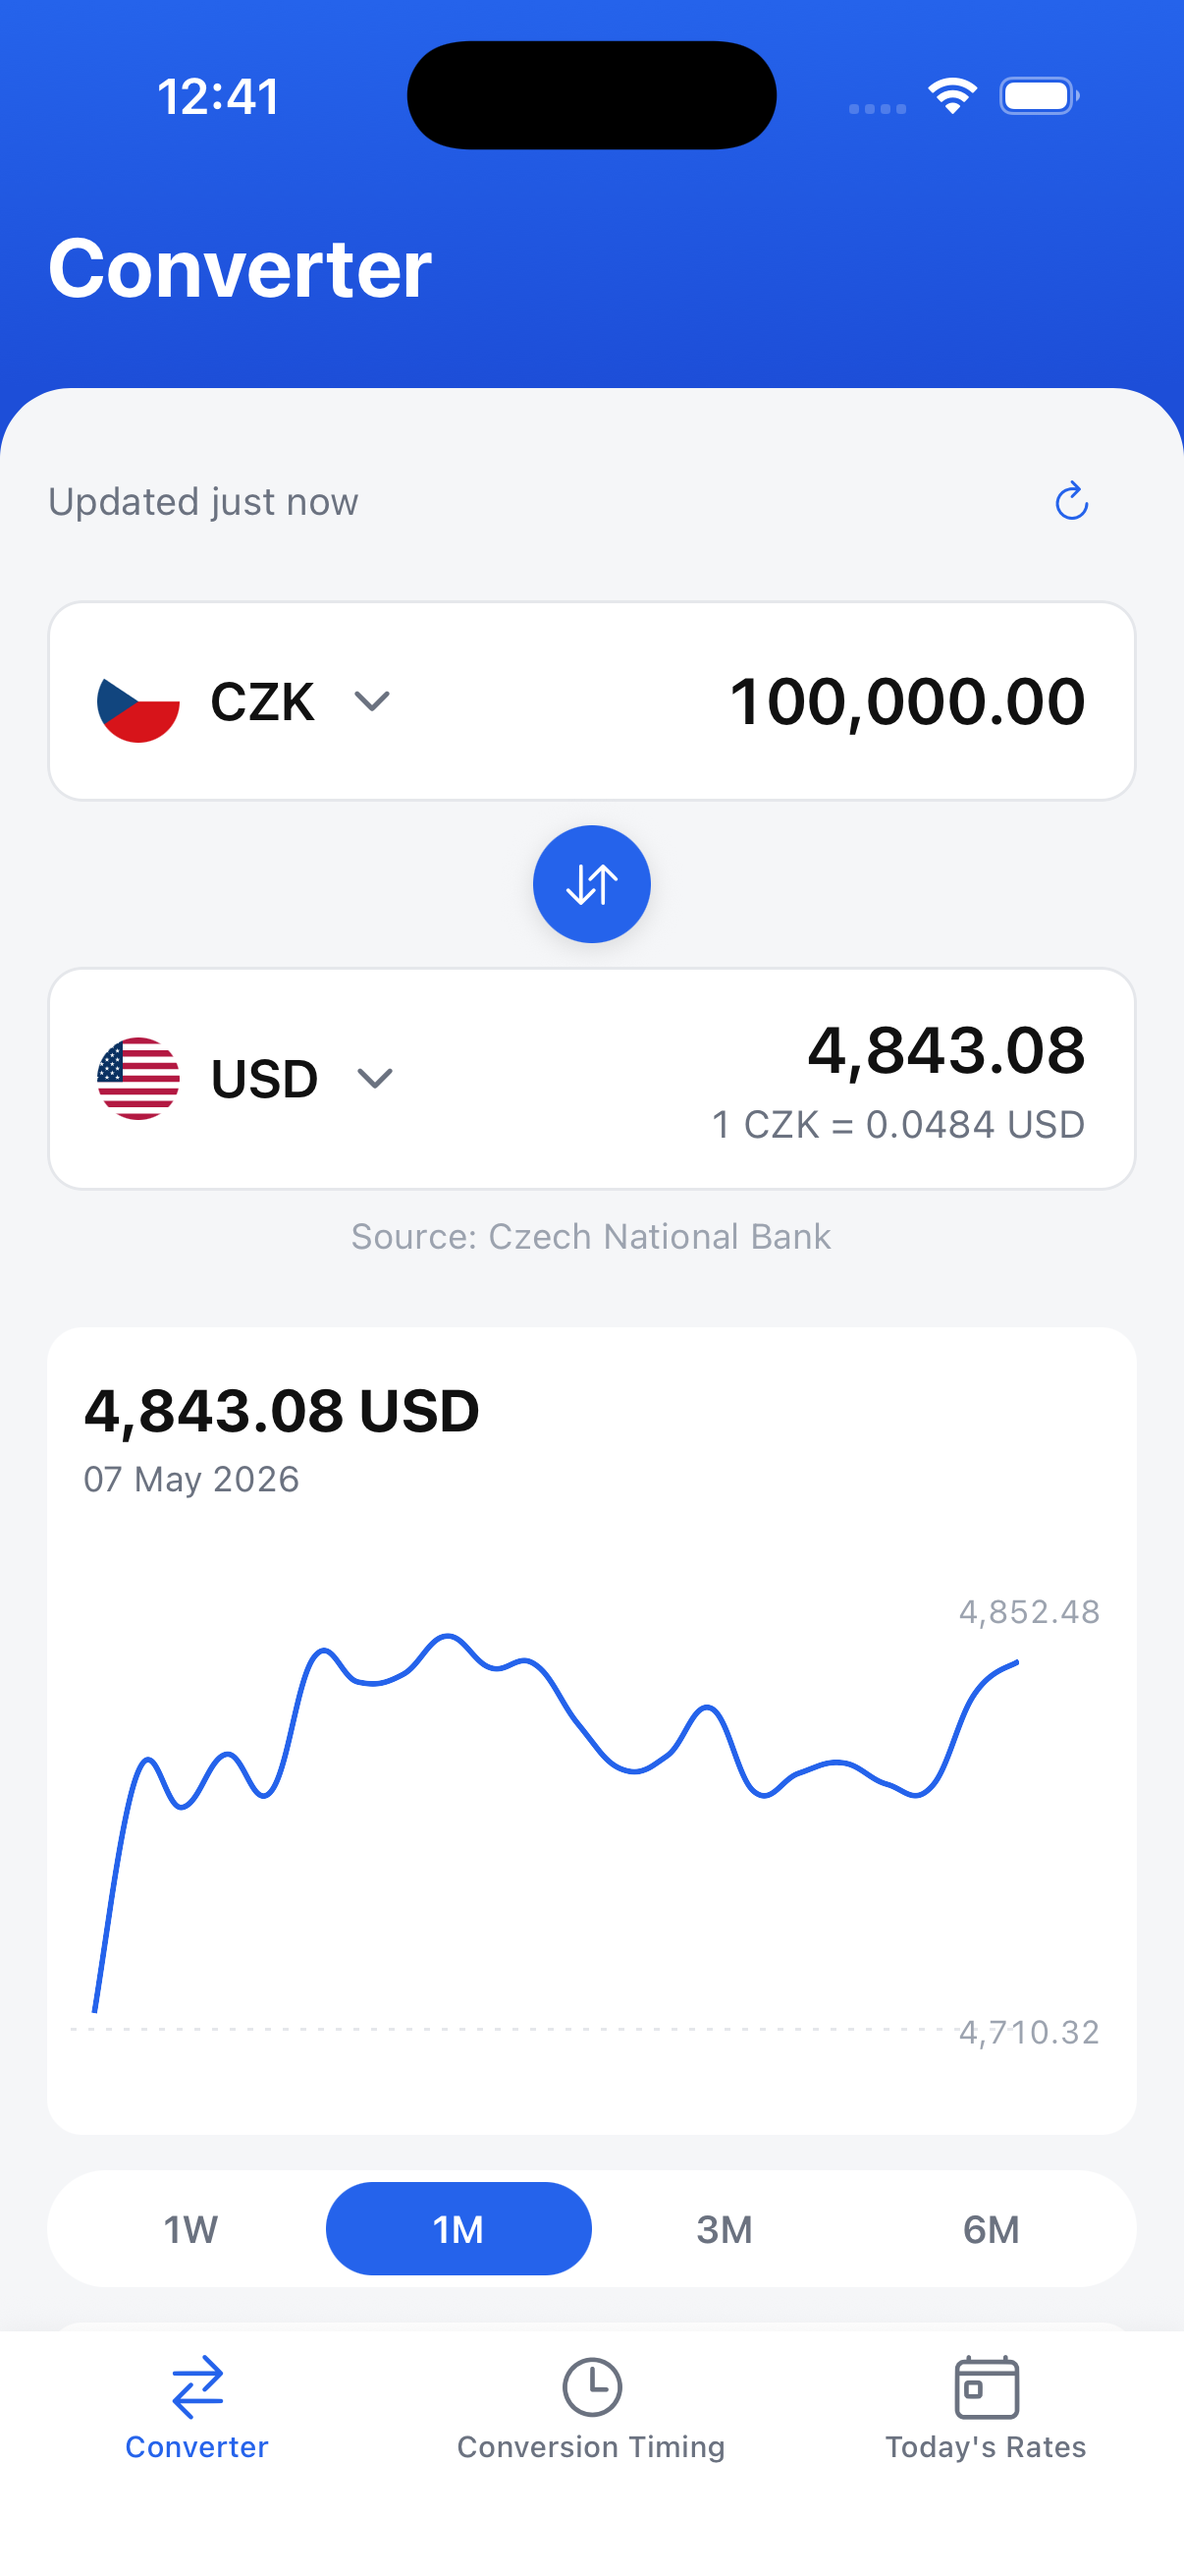
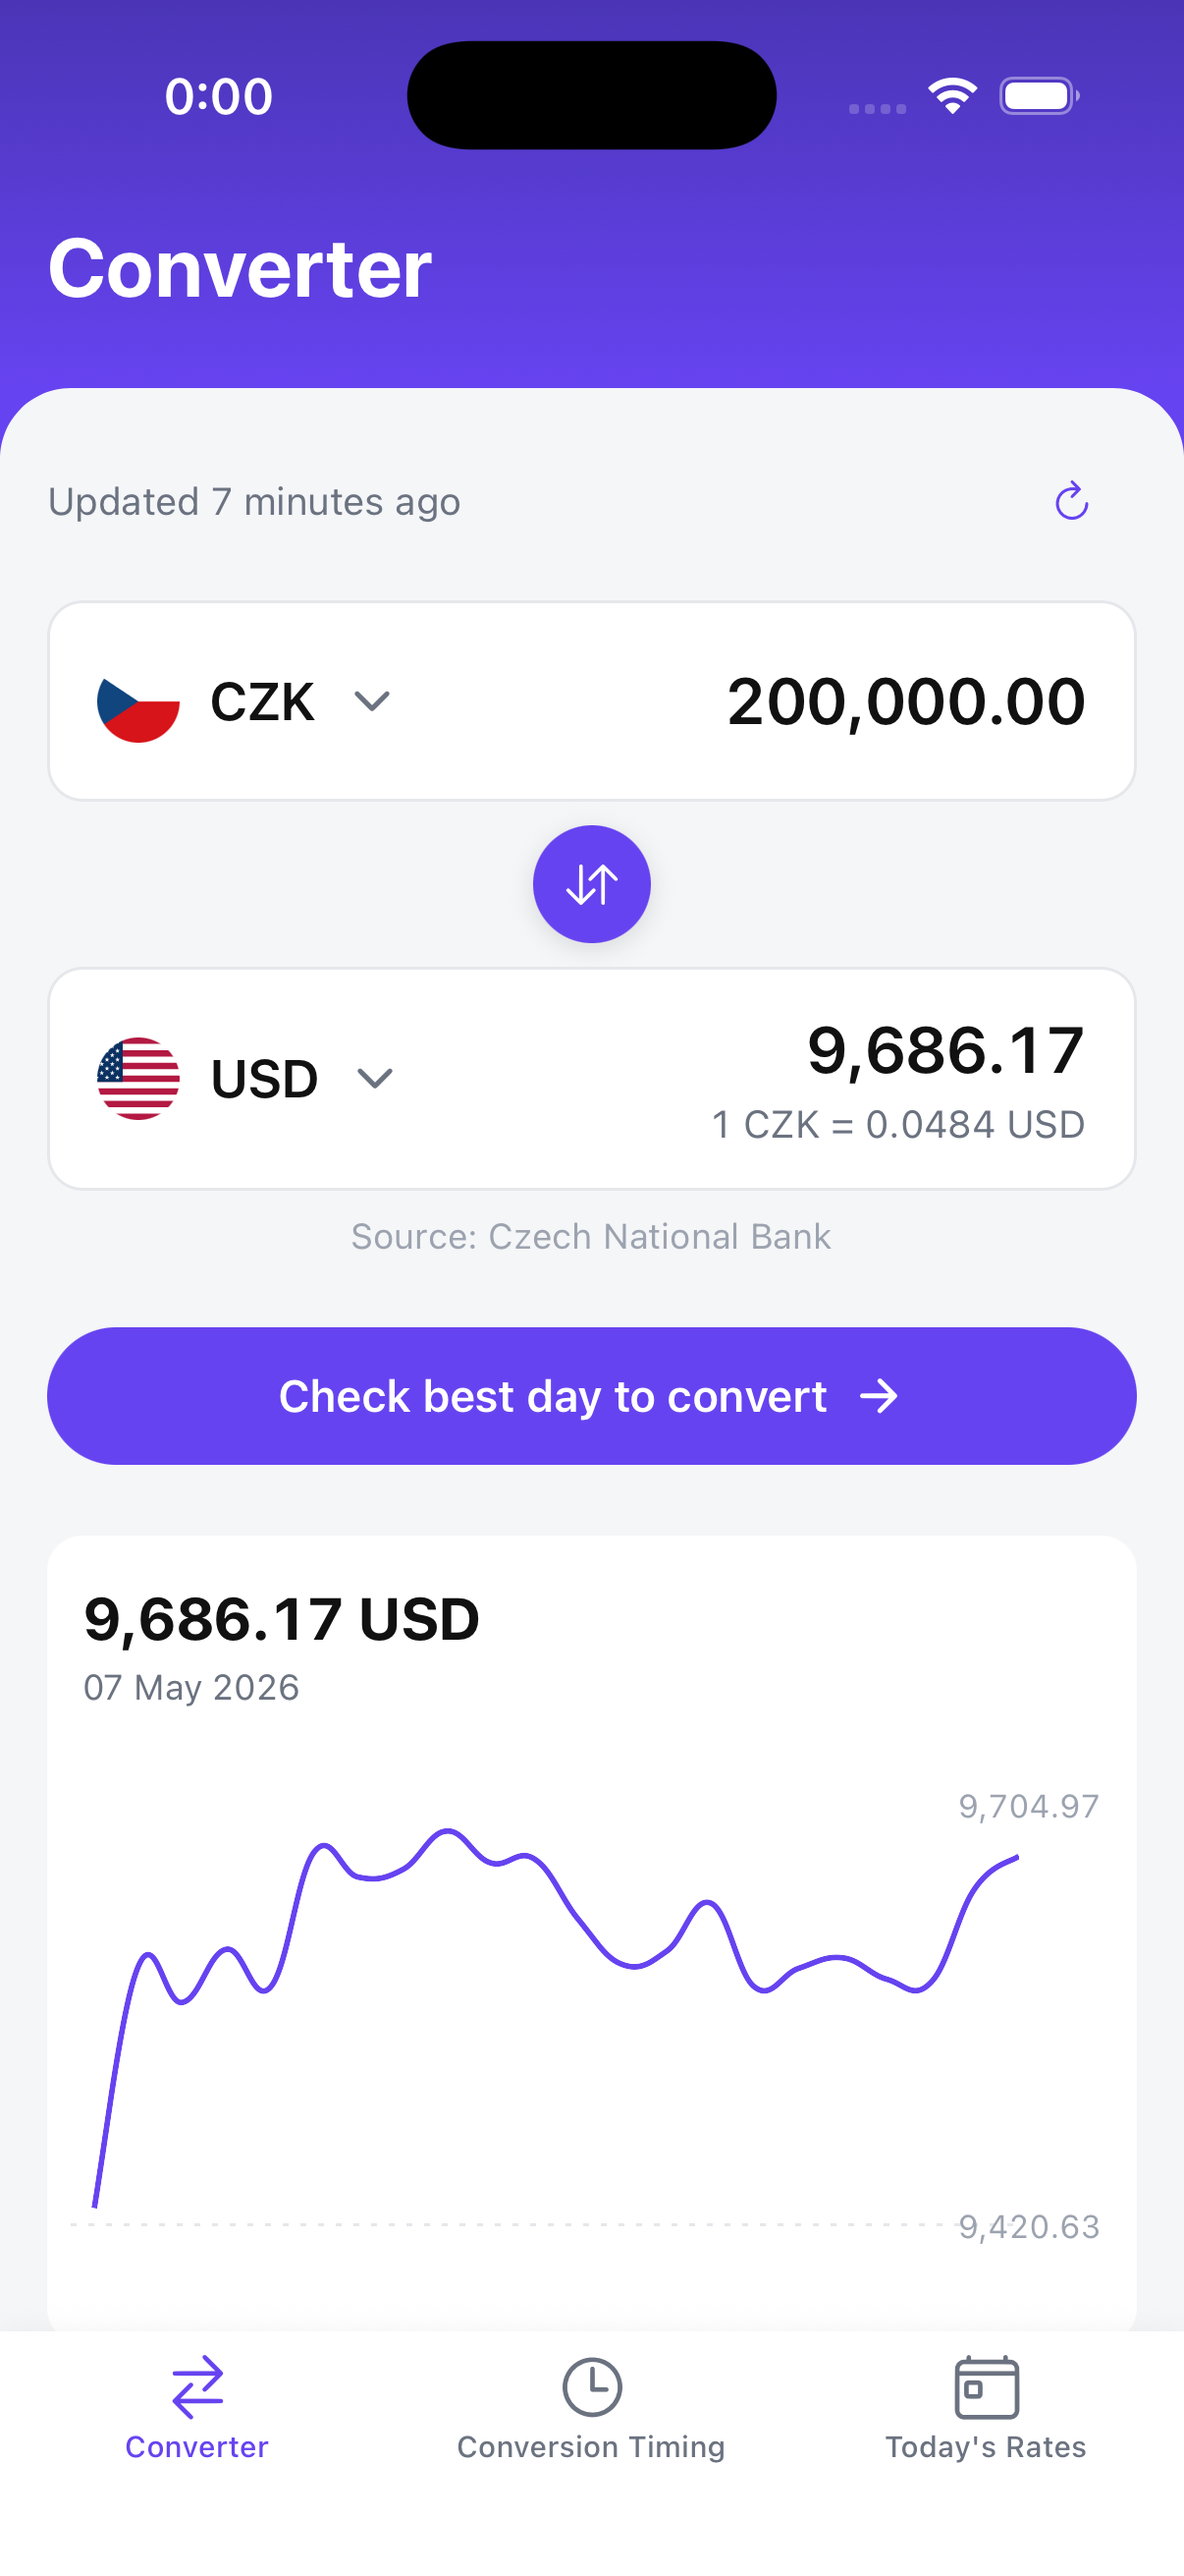
style(theme): refine accent palette, rename navy to accentDark, refresh screenshots
Tweaks accentDeep to a slightly warmer purple, replaces the standalone
navy with accentDark used by the calculator's operator keys, and
updates the README screenshots to match the new palette.

diff --git a/src/theme.ts b/src/theme.ts
@@ -9,8 +9,8 @@ export const colors = {
   surfaceSoft: '#fafafa',
   accent: '#6643f0',
   accentSoft: '#eff6ff',
-  accentDeep: '#4431a3',
-  navy: '#1e3a8a',
+  accentDeep: '#4b35b6',
+  accentDark: '#4c2097',
   positive: '#15b340',
   negative: '#bf2028',
 } as const

diff --git a/src/components/calculator/CalculatorKey.tsx b/src/components/calculator/CalculatorKey.tsx
@@ -53,7 +53,7 @@ const OperatorButton = styled(HapticPressable)`
   flex: 1;
   height: 60px;
   border-radius: ${radii.lg}px;
-  background-color: ${colors.navy};
+  background-color: ${colors.accentDark};
   align-items: center;
   justify-content: center;
 `
